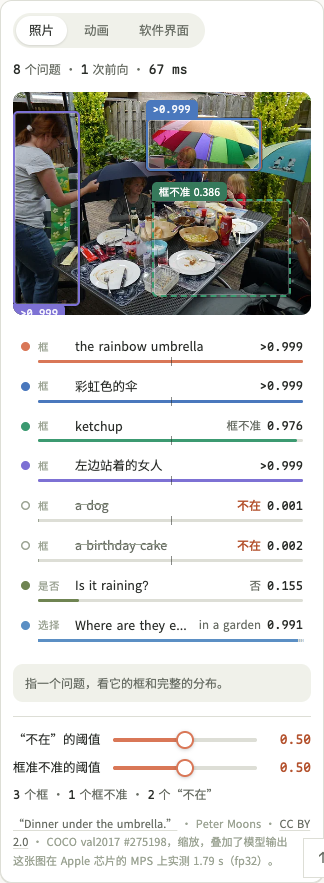
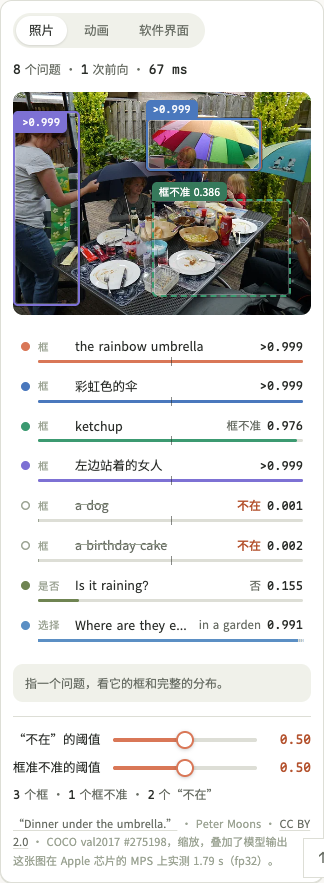
post(glance-single-prefill-decision-model): round-3 review fixes
Say where the demo's 67 ms was measured, that frame-by-frame video scans
gain only 1.2-1.9x, and that the VenusBench comparison uses our own
scoring; call the constrained and unconstrained first steps almost (not
exactly) the same; keep the hero's box labels inside the picture on
phones and give the dial readable axis text there; refresh the stills.

Changed region(s): [[0.0309, 0.3364, 0.216, 0.3669], [0.0309, 0.1223, 0.216, 0.1529]]

diff --git a/content/widgets/glance/dial.js b/content/widgets/glance/dial.js
@@ -26,7 +26,7 @@ export default async function dial(stage, { base }) {
   for (const v of [0.1, 0.3, 1, 3, 10, 30]) grid.append(el("line", { x1: X(v), x2: X(v), y1: T, y2: H - B }), el("text.g-tick", { x: X(v), y: H - B + 15, "text-anchor": "middle", text: v + "%" }));
   for (const v of [60, 70, 80, 90, 100]) grid.append(el("line", { x1: L, x2: W - R, y1: Y(v), y2: Y(v) }), el("text.g-tick", { x: L - 6, y: Y(v) + 3.5, "text-anchor": "end", text: v + "%" }));
   grid.append(el("text.g-axis-name", { x: (L + W - R) / 2, y: H - 6, "text-anchor": "middle", text: "在场的目标，被说成“不在”（对数轴）" }),
-    el("text.g-axis-name", { x: 12, y: (T + H - B) / 2, "text-anchor": "middle", transform: `rotate(-90 12 ${(T + H - B) / 2})`, text: "没有的目标，说对了“不在”" }));
+    el("text.g-axis-name.y", { x: 12, y: (T + H - B) / 2, "text-anchor": "middle", transform: `rotate(-90 12 ${(T + H - B) / 2})`, text: "没有的目标，说对了“不在”" }));
   const path = h => h.curve.filter(c => c[0] >= 0.05).map((c, i) => `${i ? "L" : "M"}${X(c[0]).toFixed(1)} ${Y(c[1]).toFixed(1)}`).join("");
   const curves = el("g", {}, ...heads.map(h => el("path.g-curve", { d: path(h), "data-id": h.id })));
   const others = el("g", {}, ...ar.map(h => el("g.g-pt.small", { "data-id": h.id }, el("circle", { r: 4 }))));
@@ -47,7 +47,7 @@ export default async function dial(stage, { base }) {
       el("div.g-ctl.g-ctl-rule", {}, el("span.g-ctl-name", { text: "解码规则" }), rulePills, gateDial)),
     ruleNote,
     el("div.g-dial-body", {},
-      el("div.g-dial-plot", {}, svg),
+      el("div.g-dial-plot", {}, el("p.g-yname", { text: "纵轴：没有的目标，说对了“不在”" }), svg),
       el("div.g-dial-side", {},
         barsTitle, bars)),
     say));

diff --git a/content/widgets/glance/style.css b/content/widgets/glance/style.css
@@ -56,6 +56,7 @@
 .g-box.loose .g-box-tag em{display:inline}
 .g-q.loose .g-q-word{color:var(--muted);font-size:11.5px}
 .g-box.tag-in .g-box-tag{bottom:auto;top:100%;border-radius:0 5px 5px 5px}
+.g-box.tag-inside .g-box-tag{bottom:auto;top:0;left:0;border-radius:2px 0 5px 0}
 .g-box:not(.hot) .g-box-tag span{display:none}
 .g-shot.focused .g-box:not(.hot) .g-box-tag{opacity:0}
 .g-hero-main{min-width:0}
@@ -266,4 +267,5 @@
 @media(max-width:640px){.g-leak .g-pills{flex-wrap:wrap;border-radius:16px}}
 .g-hero .g-hero-foot .g-slider{flex:1 1 260px}
 .g-hero .g-slider-label{min-width:6.5em}
-@media(max-width:640px){.g-dial-chart .g-tick{font-size:14.5px}.g-dial-chart .g-axis-name{font-size:14.5px}.g-pt-label{font-size:15px}}
+.g-card .g-yname{display:none;margin:0 0 4px;font-size:11.5px;color:var(--muted)}
+@media(max-width:640px){.g-dial-chart .g-axis-name.y{display:none}.g-card .g-yname{display:block}.g-dial-chart .g-tick{font-size:17px}.g-dial-chart .g-axis-name{font-size:16px}.g-pt-label{font-size:17px}}

diff --git a/content/widgets/glance/hero.js b/content/widgets/glance/hero.js
@@ -53,8 +53,8 @@ export default async function hero(stage, { base }) {
     }, el("span.g-box-tag", {}, el("span", { text: q.text }), el("b", { text: fmt(q.p) }), el("em", { text: "框不准 " + fmt(q.iou) })));
     node.addEventListener("pointerenter", () => hover(i));
     node.addEventListener("pointerleave", () => hover(-1));
-    // Boxes near the top edge put their tag inside.
-    if (top < 9) node.classList.add("tag-in");
+    // A box at the top edge hangs its tag below it, or inside when it also reaches the bottom.
+    if (top < 9) node.classList.add(y2 / h > 0.9 ? "tag-inside" : "tag-in");
     return node;
   }
 

diff --git a/content/posts/glance-single-prefill-decision-model.md b/content/posts/glance-single-prefill-decision-model.md
@@ -11,7 +11,7 @@ tags:
 draft: false
 ---
 
-```widget src="../widgets/glance/hero.js" title="一张图，八个问题，一次前向" note="Glance-4B-preview 的真实输出，事先跑好，页面上只做筛选。两个阈值只作用于框问题：P(present) 低于第一个就回答“不在”，P(IoU ≥ 0.5) 低于第二个就把框标成“不准”。67 ms 是 RTX PRO 6000 上一张图问 8 个问题的延迟中位数；图上的结果是在 Apple 芯片 MPS（fp32）上跑的。"
+```widget src="../widgets/glance/hero.js" title="一张图，八个问题，一次前向" note="Glance-4B-preview 的真实输出，事先跑好，页面上只做筛选。两个阈值只作用于框问题：P(present) 低于第一个就回答“不在”，P(IoU ≥ 0.5) 低于第二个就把框标成“不准”。67 ms 是 RTX PRO 6000 上一张照片（不超过 640 个视觉 token）问 8 个问题的延迟中位数，软件界面那页的截图更大，会更慢，我们没有单独测；图上的结果是在 Apple 芯片 MPS（fp32）上跑的。"
 ../images/glance/w-hero.png | 静态图：雨伞下的晚饭，Glance 框出了彩虹伞和左边站着的女人；“番茄酱”在（0.976），但框准的概率只有 0.386，标成“框不准”；“一只狗”和“生日蛋糕”回答“不在”（0.001、0.002）；“在下雨吗”是 0.155；“在哪吃饭”选了花园（0.991）
 ../images/glance/w-hero-n.png | 同上，手机版
 ```
@@ -138,7 +138,7 @@ Glance 的想法来自文本里的“System One”式决策模型：给一个状
 
 生成式的头还要选一个解码规则来决定“说不说 none”：贪心解码；P(none) ≥ 0.5 的阈值；或者比较整串 `none` 和整串坐标的概率，大的赢。选一个头、一个规则，看看会发生什么：
 
-```widget src="../widgets/glance/dial.js" title="同一个数字头，只换解码规则：拒答率从 0.4% 到最多约 40%" note="横轴：RefCOCO val 上目标在场、模型却说“不在”的比例（10,834 个表达式）；纵轴：gRefCOCO val 无目标表达式上说对“不在”的比例（N-acc，8,905 个）。每条曲线是一个头在它自己的“不在”概率上取遍所有阈值（门控用 1 − P(present)，生成式头用 P(none)）；点是某个解码规则落在哪里。贪心和阈值 0.5 在这些目标上，受约束和不受约束的解码第一步结果相同；整串比较用受约束的解码，候选是贪心解出的那串坐标，所以是拒答率的上界。单个 seed。来源：outputs/ablation/*/rows.json、rows_c.json、main_table.json。"
+```widget src="../widgets/glance/dial.js" title="同一个数字头，只换解码规则：拒答率从 0.4% 到最多约 40%" note="横轴：RefCOCO val 上目标在场、模型却说“不在”的比例（10,834 个表达式）；纵轴：gRefCOCO val 无目标表达式上说对“不在”的比例（N-acc，8,905 个）。每条曲线是一个头在它自己的“不在”概率上取遍所有阈值（门控用 1 − P(present)，生成式头用 P(none)）；点是某个解码规则落在哪里。贪心和阈值 0.5 在这些目标上，受约束和不受约束的解码第一步结果几乎相同（原子 1000 在 16,158 个目标里有 53 个不同）；整串比较用受约束的解码，候选是贪心解出的那串坐标，所以是拒答率的上界。单个 seed。来源：outputs/ablation/*/rows.json、rows_c.json、main_table.json。"
 ../images/glance/w-dial.png | 静态图：五个输出头的曲线几乎重合；同一个数字头，阈值 0.5 下把 0.4% 的在场目标说成“不在”，整串比较下最多 39.9%
 ../images/glance/w-dial-n.png | 同上，手机版
 ```
@@ -182,11 +182,11 @@ v0 27B | 77.5 | 0.968 | 0.074
 v1 4B | 87.4 | 0.979 | 0.024
 ```
 
-GUI 上也是同一个故事。v0 在 COCO 上训了 78 分钟，拿去测 ScreenSpot-v2[@screenspotv2] 只有 28.6，生成式底座是 93.4。一开始我们怀疑是分辨率：v0 最多用 640 个视觉 token。可在 ScreenSpot-Pro[@screenspotpro] 上把 v0 的视觉 token 提到 4,000，它也只从 0.9% 升到 1.8%，底座是 56.0%。新加的头只见过自然图像里的物体，分辨率不是主因。v1 加了 GUI 截图之后，ScreenSpot-v2 回到 89.4。在 VenusBench-GD[@venusbench] 里“目标不在屏幕上”的题上，v1 说对了 81.5%，比已发表的最好结果（78.1%）还高；同一个底座按生成式的方式、用同一个评测脚本，只有 3.9%。目标在场的题，点击准确率是 47.3%（这部分计分时没有经过门控）。
+GUI 上也是同一个故事。v0 在 COCO 上训了 78 分钟，拿去测 ScreenSpot-v2[@screenspotv2] 只有 28.6，生成式底座是 93.4。一开始我们怀疑是分辨率：v0 最多用 640 个视觉 token。可在 ScreenSpot-Pro[@screenspotpro] 上把 v0 的视觉 token 提到 4,000，它也只从 0.9% 升到 1.8%，底座是 56.0%。新加的头只见过自然图像里的物体，分辨率不是主因。v1 加了 GUI 截图之后，ScreenSpot-v2 回到 89.4。在 VenusBench-GD[@venusbench] 里“目标不在屏幕上”的题上，v1 说对了 81.5%，比已发表的最好结果（78.1%）还高（用的是我们自己的评测脚本）；同一个底座按生成式的方式、用同一个评测脚本，只有 3.9%。目标在场的题，点击准确率是 47.3%（这部分计分时没有经过门控）。
 
 ## 拿到视频上
 
-一个会说“不在”的框，放到视频上就是一条时间曲线：每隔几秒取一帧，问“兔子在不在”“有没有蝴蝶”，P(t) 越过阈值的地方就是它出现的时间段，连起来的段数就是次数。下面是 Big Buck Bunny 的前 8 分钟，每 4 秒一帧，每帧在一次前向里同时问 5 个问题，图里画出其中 4 个框问题。拖动曲线看任意一帧：
+一个会说“不在”的框，放到视频上就是一条时间曲线：每隔几秒取一帧，问“兔子在不在”“有没有蝴蝶”，P(t) 越过阈值的地方就是它出现的时间段，连起来的段数就是次数。逐帧扫描是“多张图、每张图问几个问题”的用法，Glance 的速度优势在这里会缩小到 1.2–1.9 倍。下面是 Big Buck Bunny 的前 8 分钟，每 4 秒一帧，每帧在一次前向里同时问 5 个问题，图里画出其中 4 个框问题。拖动曲线看任意一帧：
 
 ```widget src="../widgets/glance/video.js" title="在不在，随时间变成一条曲线" note="Glance-4B-preview，Big Buck Bunny 0–476 秒每 4 秒一帧（120 帧，640×360），每帧 5 个问题（4 个框、1 个是否）一次问完，这里展示 4 个框问题，Apple 芯片 MPS、fp32，平均每帧约 1.6 秒。曲线下的灰条是我们逐帧看图标的“在”（看不清的帧单列，不计入一致率）；标注时看得到模型的输出，所以一致率偏乐观。“飞鼠”指片中的飞鼠 Frank，不含另外两只啮齿动物。视频 © 2008 Blender Foundation，www.bigbuckbunny.org，CC BY 3.0（https://creativecommons.org/licenses/by/3.0/），帧经过缩放。原始输出：outputs/blog/widgets/bbb4.json。"
 ../images/glance/w-video.png | 静态图：2 分 16 秒那一帧，Glance 框出了兔子（0.996）、蝴蝶（0.992）和左上角的红松鼠（飞鼠 0.661）；下面是四条 P(t) 曲线和人工标注
